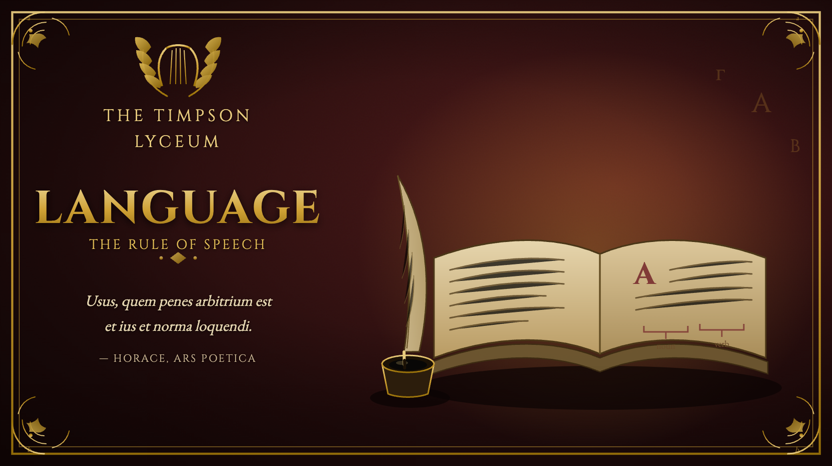
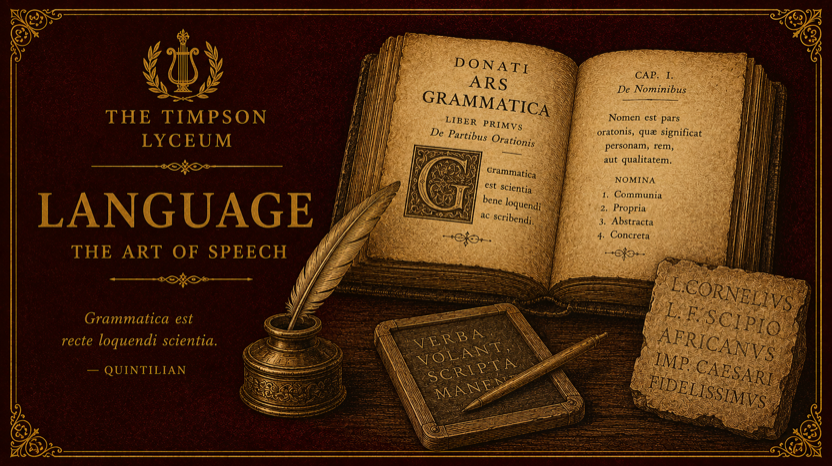
Replace the Language plate with the real engraved one
Generated in the same conversation as the original four, so it actually belongs
to the set rather than approximating it. Resampled to 832x466 and cropped to
match; 742KB, in line with the other four (713-819KB), which matters because
these are served unoptimized.

Drops the vector stand-in and the tools/category-plate renderer built to produce
it — that existed only because the plate could not be drawn here, and keeping it
would point the next category at the wrong pipeline. README provenance now says
what actually makes these, and warns to proofread the Latin in the artwork: text
baked into an illustration can't be fixed without regenerating the whole plate.

Latin checked on this one — caption, DONATI ARS GRAMMATICA, De Partibus
Orationis, and the noun table are all correct. The wax tablet's VERBA VOLANT,
SCRIPTA MANENT has its final T hidden behind the stylus.

diff --git a/edu-web/public/categories/README.md b/edu-web/public/categories/README.md
@@ -27,7 +27,12 @@ Palette is the site's own (`app/globals.css`): crimson `#0f0404`–`#4a1a1a`, go
 
 ## Provenance
 
-`history`, `mathematics`, `philosophy`, `science` are raster illustrations in an engraved
-style. `language.png` was composed as vector + type and rendered headless from
-`tools/category-plate/` — it follows the same template but does not have the engraved
-depth of the other four, so it is the one to replace first if the set is ever redone.
+All five are raster illustrations in an engraved style, generated from a prompt describing
+the series (size, palette, engraving style, and the objects for that subject) rather than
+drawn. Ask for the whole family at once, or for "one more to go with the other four" in the
+same conversation, so the palette and layout stay consistent. Source renders come out around
+1280x720 or larger; resample to 832 wide and crop to 466.
+
+Proofread any Latin or Greek in the artwork letter by letter before committing it — dropped
+and doubled letters are the usual failure, and text baked into an illustration cannot be
+fixed later without regenerating the whole plate.
